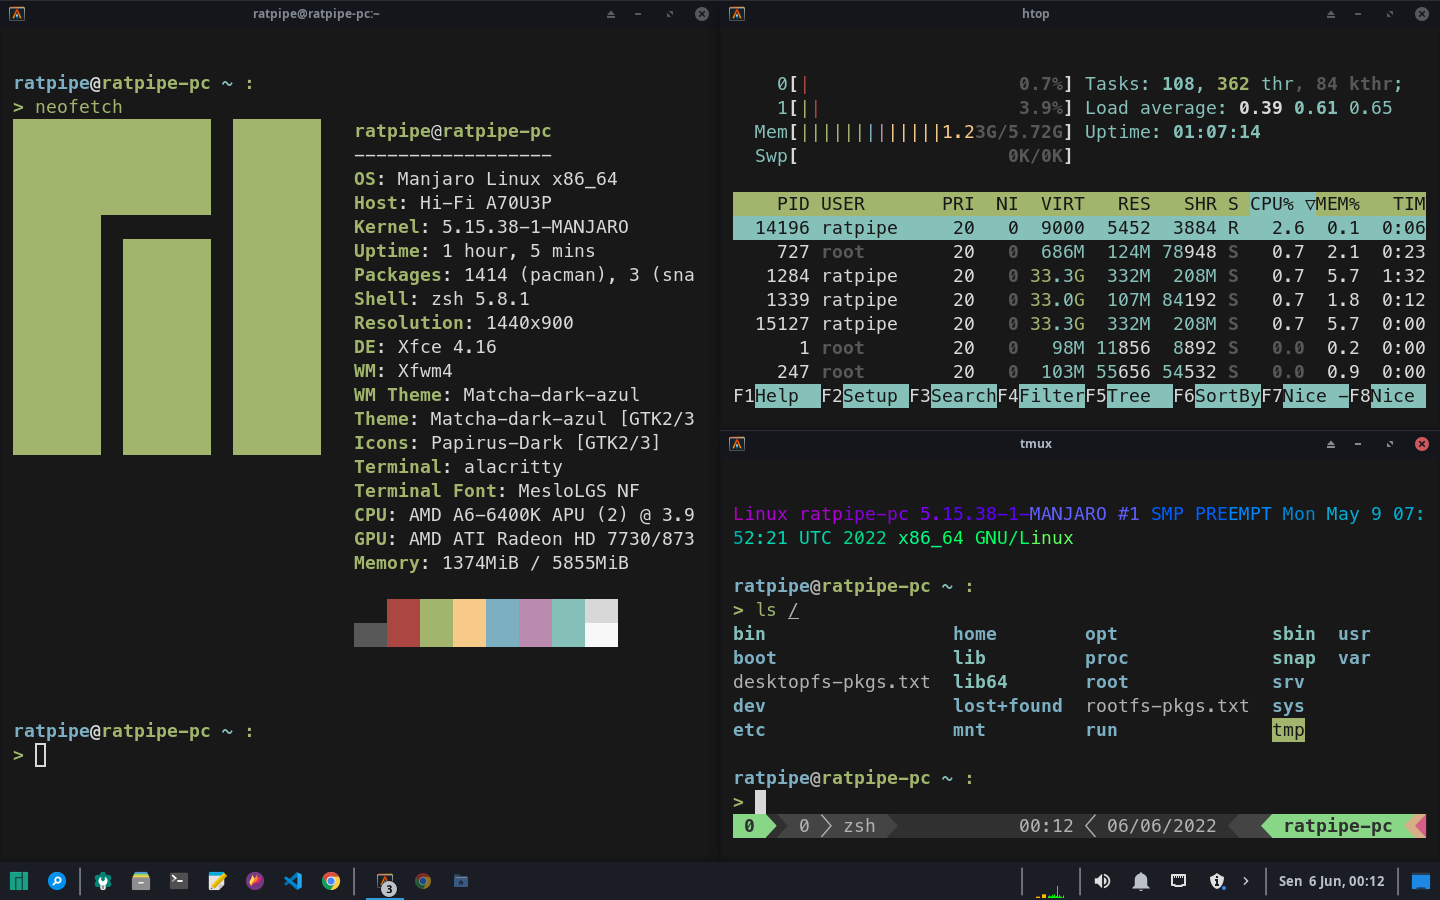
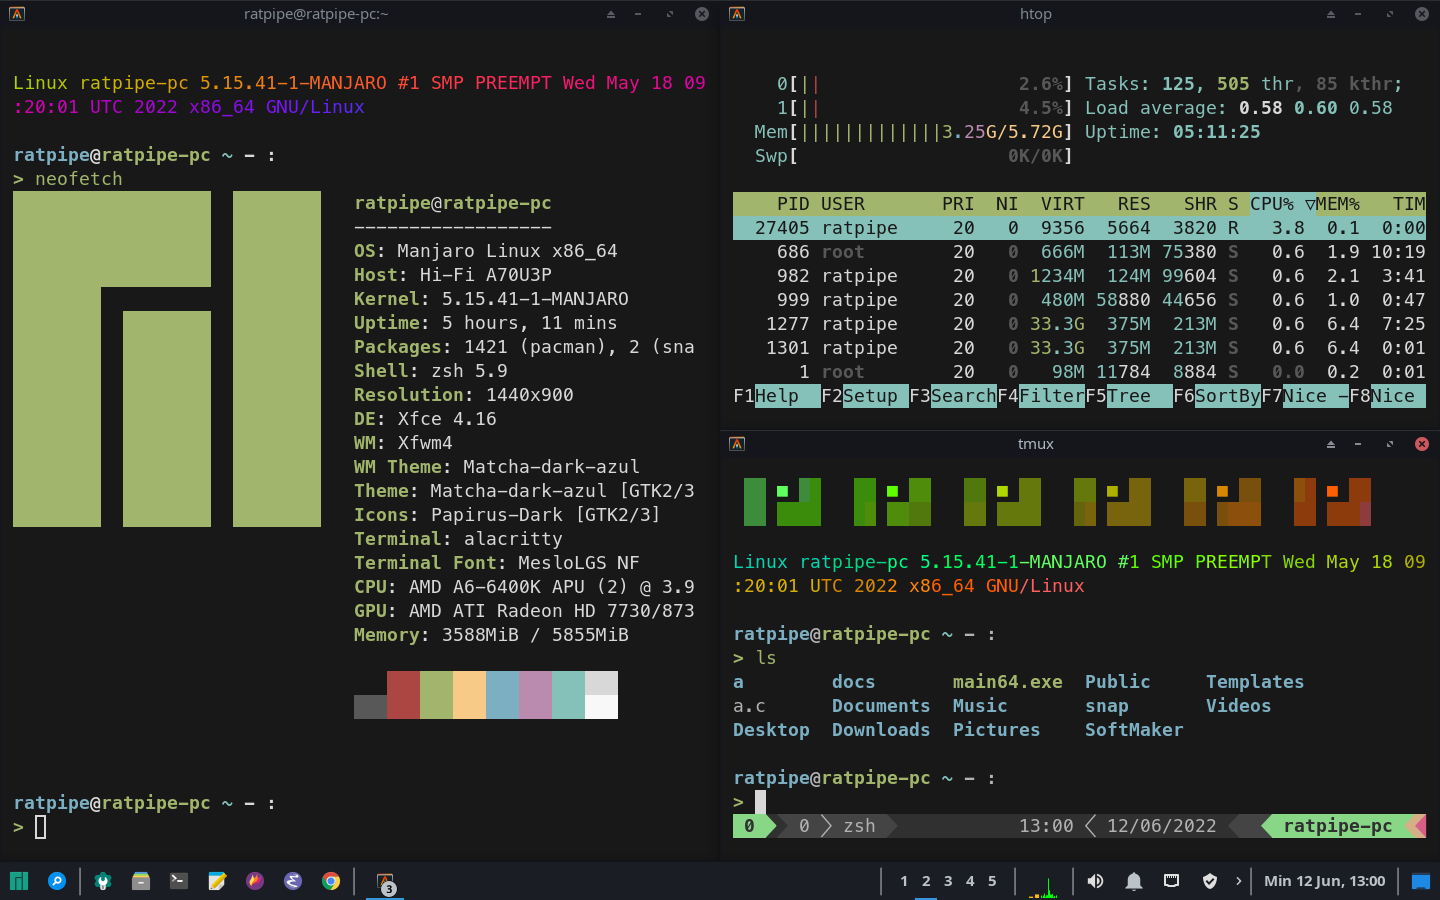
add new showcases and change doom config

diff --git a/README.md b/README.md
@@ -22,6 +22,9 @@
 
 ![Showcase-4](/showcases/4.png)
 
+<hr>
+
+![Showcase-4](/showcases/5.png)
 
 </div>
 
